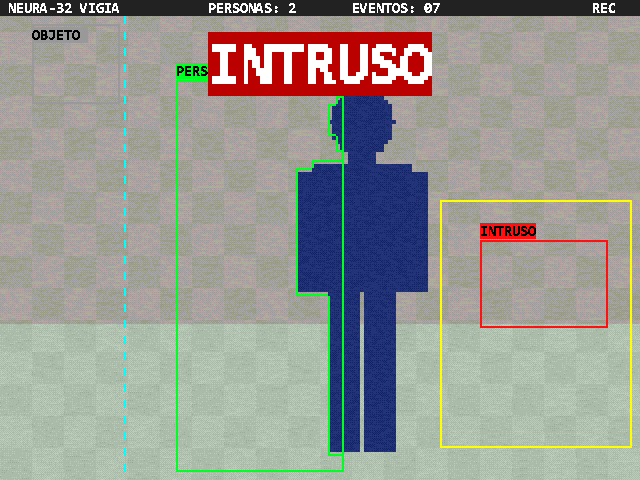
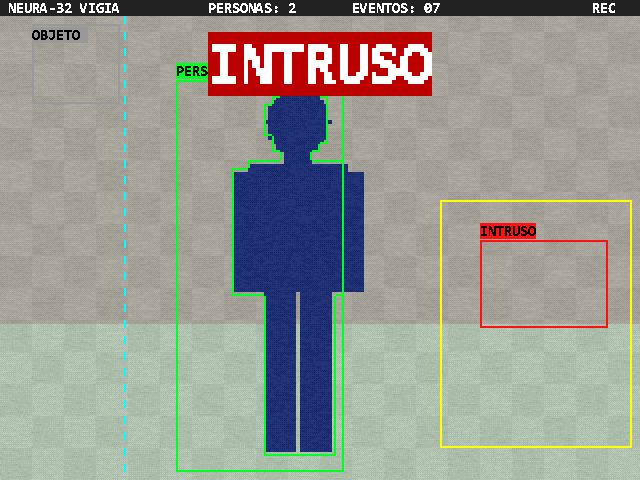
Video sin cortes: monitor enganchado a la camara y cuadros completos en la PC

Changed region(s): [[0.3438, 0.1875, 0.6875, 0.9688]]

diff --git a/sw/video_pc.py b/sw/video_pc.py
@@ -28,42 +28,24 @@ class Video:
         self.y = np.zeros((alto, ancho), dtype=np.float32)
         self.u = np.full((alto // 2, ancho // 2), 128, dtype=np.float32)
         self.v = np.full((alto // 2, ancho // 2), 128, dtype=np.float32)
-        self.campos = 0
-        self.movimiento = np.zeros((alto, ancho), dtype=bool)
+        self.cuadros = 0
 
-    def bits_campo(self):
-        return 16 + self.ancho * (self.alto // 2) * 4 + (self.ancho // 2) * (self.alto // 4) * 8
+    def bits_cuadro(self):
+        return 16 + self.ancho * self.alto * 4 + (self.ancho // 2) * (self.alto // 2) * 8
 
-    def poner_campo(self, bits):
-        # mete un campo
+    def poner_cuadro(self, bits):
+        # cuadro completo de un solo banco
         cab = int(bits_a_numeros(bits[:16], 16)[0])
         if (cab >> 8) != 0xA5:
             return None
-        campo = cab & 1
-        n_y = self.ancho * (self.alto // 2)
-        lum = bits_a_numeros(bits[16:16 + n_y * 4], 4).reshape(self.alto // 2, self.ancho).astype(np.float32)
-        lum = lum * 17.0
-        col = bits_a_numeros(bits[16 + n_y * 4:], 8).reshape(self.alto // 4, self.ancho // 2)
-        u = ((col >> 4) & 15).astype(np.float32) * 16 + 8
-        v = (col & 15).astype(np.float32) * 16 + 8
-        anterior = self.y[campo::2].copy()
-        self.y[campo::2] = lum
-        self.u[campo::2] = u
-        self.v[campo::2] = v
-        # desentrelazado
-        cambio = np.abs(lum - anterior) > 40
-        self.movimiento[campo::2] = cambio
-        otro = 1 - campo
-        if self.campos > 0:
-            if campo == 0:
-                vecino = np.vstack([lum[1:], lum[-1:]])
-                mov = cambio | np.vstack([cambio[1:], cambio[-1:]])
-            else:
-                vecino = np.vstack([lum[:1], lum[:-1]])
-                mov = cambio | np.vstack([cambio[:1], cambio[:-1]])
-            self.y[otro::2] = np.where(mov, (lum + vecino) / 2, self.y[otro::2])
-        self.campos += 1
-        return campo
+        n_y = self.ancho * self.alto
+        lum = bits_a_numeros(bits[16:16 + n_y * 4], 4).reshape(self.alto, self.ancho).astype(np.float32)
+        col = bits_a_numeros(bits[16 + n_y * 4:], 8).reshape(self.alto // 2, self.ancho // 2)
+        self.y = lum * 17.0
+        self.u = ((col >> 4) & 15).astype(np.float32) * 16 + 8
+        self.v = (col & 15).astype(np.float32) * 16 + 8
+        self.cuadros += 1
+        return self.cuadros
 
     def imagen(self, escala=4, suavizar=True):
         # imagen RGB ampliada
@@ -99,6 +81,7 @@ def leer_datos(bits):
         "eventos": campo(319, 8),
         "cuadros": campo(327, 16),
         "silueta": campo(343, 13),
+        "vga": campo(356, 1),
     }
 
 
@@ -180,9 +163,9 @@ def revisar_simulacion(carpeta, salida):
         return np.frombuffer(t.encode(), dtype=np.uint8) - 48
 
     video = Video()
-    for nombre in ("pc_campo0.txt", "pc_campo1.txt"):
-        campo = video.poner_campo(bits_de(nombre))
-        print(nombre, "-> campo", campo)
+    for nombre in ("pc_cuadro0.txt", "pc_cuadro1.txt"):
+        n = video.poner_cuadro(bits_de(nombre))
+        print(nombre, "-> cuadro", n)
     datos = leer_datos(bits_de("pc_datos.txt"))
     mascara = bits_de("pc_mascara.txt")
     print("datos:", {k: v for k, v in datos.items() if k != "cajas"})

diff --git a/fpga/ver_vigia.py b/fpga/ver_vigia.py
@@ -47,17 +47,17 @@ class Visor:
                                              stdout=subprocess.PIPE, stderr=subprocess.STDOUT, text=True, bufsize=1,
                                              creationflags=getattr(subprocess, "CREATE_NO_WINDOW", 0))
                 salida = self.proc.stdout
-                n_campo = self.video.bits_campo()
+                n_cuadro = self.video.bits_cuadro()
                 while self.vivo:
                     linea = salida.readline()
                     if not linea:
                         break
                     linea = linea.strip()
-                    if linea.startswith("CAMPO"):
+                    if linea.startswith("CUADRO"):
                         self.ms_jtag = int(linea.split()[1])
-                        bits = hex_a_bits(salida.readline(), n_campo)
+                        bits = hex_a_bits(salida.readline(), n_cuadro)
                         with self.cerradura:
-                            if self.video.poner_campo(bits) is not None:
+                            if self.video.poner_cuadro(bits) is not None:
                                 self.tiempos = (self.tiempos + [time.time()])[-20:]
                                 self.nuevo = True
                     elif linea == "MASCARA":
@@ -112,10 +112,11 @@ class Visor:
         img = self.componer(min(ancho, alto * 4 // 3))
         with self.cerradura:
             t = list(self.tiempos)
+            vga = bool(self.datos and self.datos.get("vga"))
         ritmo = (len(t) - 1) / (t[-1] - t[0]) if len(t) > 1 and t[-1] > t[0] else 0.0
         sin_senal = (not t) or (time.time() - t[-1] > 3.0)
         pie = (f"{'SIN VIDEO: revisa la placa y el cable USB   ' if sin_senal else ''}"
-               f"{ritmo:4.1f} campos/s   JTAG {self.ms_jtag} ms   "
+               f"{ritmo:4.1f} cuadros/s   JTAG {self.ms_jtag} ms   VGA {'enganchado' if vga else 'libre'}   "
                f"M mascara   S suavizado   F foto   Esc salir")
         self.raiz.title("NEURA-32 Vigia  |  CAM 01  |  " + pie)
         self.foto_tk = ImageTk.PhotoImage(img)

diff --git a/README.md b/README.md
@@ -291,13 +291,17 @@ quartus_stp -t cargar_programa.tcl programa_demo.txt
    promedio exponencial F ← F + (I − F)/2^α. Una celda es silueta si |I − F| supera un umbral. Donde hay
    alguien parado el fondo aprende cuatro veces más lento, para que una persona quieta no se «borre». La
    máscara se escribe en dos bancos: la cámara llena uno mientras el procesador lee el otro.
-5. **Monitor** (`vga_sincronia.v`, `vga_draw.v`). 640 × 480 a 60 Hz. Convierte YUV a RGB con sumas y
+5. **Monitor** (`vga_sincronia.v`, `vga_draw.v`). 640 × 480 a 62.5 Hz (784 × 510 ciclos), justo dos cuadros del
+   monitor por cada cuadro de la cámara. El barrido se engancha a la cámara: el renglón 0 se escribe cuando el
+   monitor va en su renglón 16, así el monitor nunca lee el renglón que se está escribiendo y no hay cortes
+   aunque la cámara se mueva. Convierte YUV a RGB con sumas y
    corrimientos y trama el resultado (2 × 2) para el DAC de 4 bits de la placa. Encima dibuja el contorno de
    la silueta de cada persona, la línea virtual, la zona prohibida, hasta ocho recuadros con su letrero
    (`PERSONA` en verde, `INTRUSO` en rojo, `OBJETO` en gris, con una fuente de 8 × 16), el letrero grande de
    alarma y una barra de estado con las personas a la vista y los eventos.
 6. **Vista en la PC** (`pc_view.v`, `fpga/ver_vigia.py`). Cuando no hay monitor, el mismo video sale por el
-   cable USB-Blaster (JTAG): 160 × 120 entrelazado, con la máscara y los recuadros, y una ventana en la
+   cable USB-Blaster (JTAG): cuadros completos de 160 × 120 tomados de un solo banco (sin entrelazar), con la
+   máscara y los recuadros, y una ventana en la
    computadora dibuja lo mismo que el monitor.
 
 ![Lo que muestra el monitor](docs/img/vga_color.png)
@@ -395,7 +399,7 @@ las salidas completas están en `tb/*.txt`.
 | `tb_prueba_isa` | las 49 instrucciones: las tres tablas, inmediatos, cargas y almacenamientos por byte, los seis saltos, subrutinas, división entre cero, lectura de tablas | 64 / 64 |
 | `tb_red_neuronal` | clasificador 3 × 3 en las 16 combinaciones de prueba contra un modelo de referencia | 481 / 481 |
 | `tb_cargador` | se carga otro programa por JTAG con el procesador ya corriendo | 7 / 7 |
-| `tb_vision` | cámara a color, máscara, cuadro completo del monitor y lo que baja a la PC | 9 / 9 |
+| `tb_vision` | cámara a color, máscara, monitor enganchado sin cortes y lo que baja a la PC | 11 / 11 |
 | `tb_vigia` | el sistema completo con un modelo de la cámara (5.1) | 31 / 31 |
 
 El programa de la clase, ciclo por ciclo, en el procesador final (`tb_programa_ab_c`):
@@ -530,13 +534,13 @@ tiempo de cada cuadro y la respuesta llega en el cuadro siguiente.
 
 | Recurso | Usado | Disponible |
 |---|---|---|
-| Elementos lógicos | 9 148 (18 %) | 49 760 |
-| Registros | 4 039 | |
+| Elementos lógicos | 9 130 (18 %) | 49 760 |
+| Registros | 4 035 | |
 | Bloques de memoria M9K | 163 (90 %) | 182 |
 | Bits de memoria | 1 211 136 (72 %) | 1 677 312 |
 | Multiplicadores de 9 bits | 6 | 288 |
 | Pines | 121 | 360 |
-| Frecuencia máxima del reloj de 25 MHz (modelo lento, 85 °C) | 35.71 MHz | se necesitan 25 MHz |
+| Frecuencia máxima del reloj de 25 MHz (modelo lento, 85 °C) | 35.03 MHz | se necesitan 25 MHz |
 
 La memoria es lo que más se ocupa: el video (brillo y color), las dos copias que se mandan a la PC, el
 fondo, las máscaras, las 4096 palabras de programa y las 4096 de datos.

diff --git a/docs/PRUEBA-EN-PLACA.md b/docs/PRUEBA-EN-PLACA.md
@@ -97,6 +97,8 @@ python ver_vigia.py
 
 Abre una ventana con el video de la cámara y lo mismo que dibuja el monitor (recuadros, letreros, silueta,
 zona, línea y alarma). Teclas: `M` muestra toda la máscara, `S` suaviza, `F` guarda una foto, `Esc` sale.
+Llegan cuadros completos (unos 19 por segundo); el título dice `VGA enganchado` cuando el monitor ya va al paso de la
+cámara. El monitor trabaja a 62.5 Hz: si alguno no la acepta, se ve en el paso 1 (barras de colores).
 
 ## Correr otro programa sin volver a compilar
 
